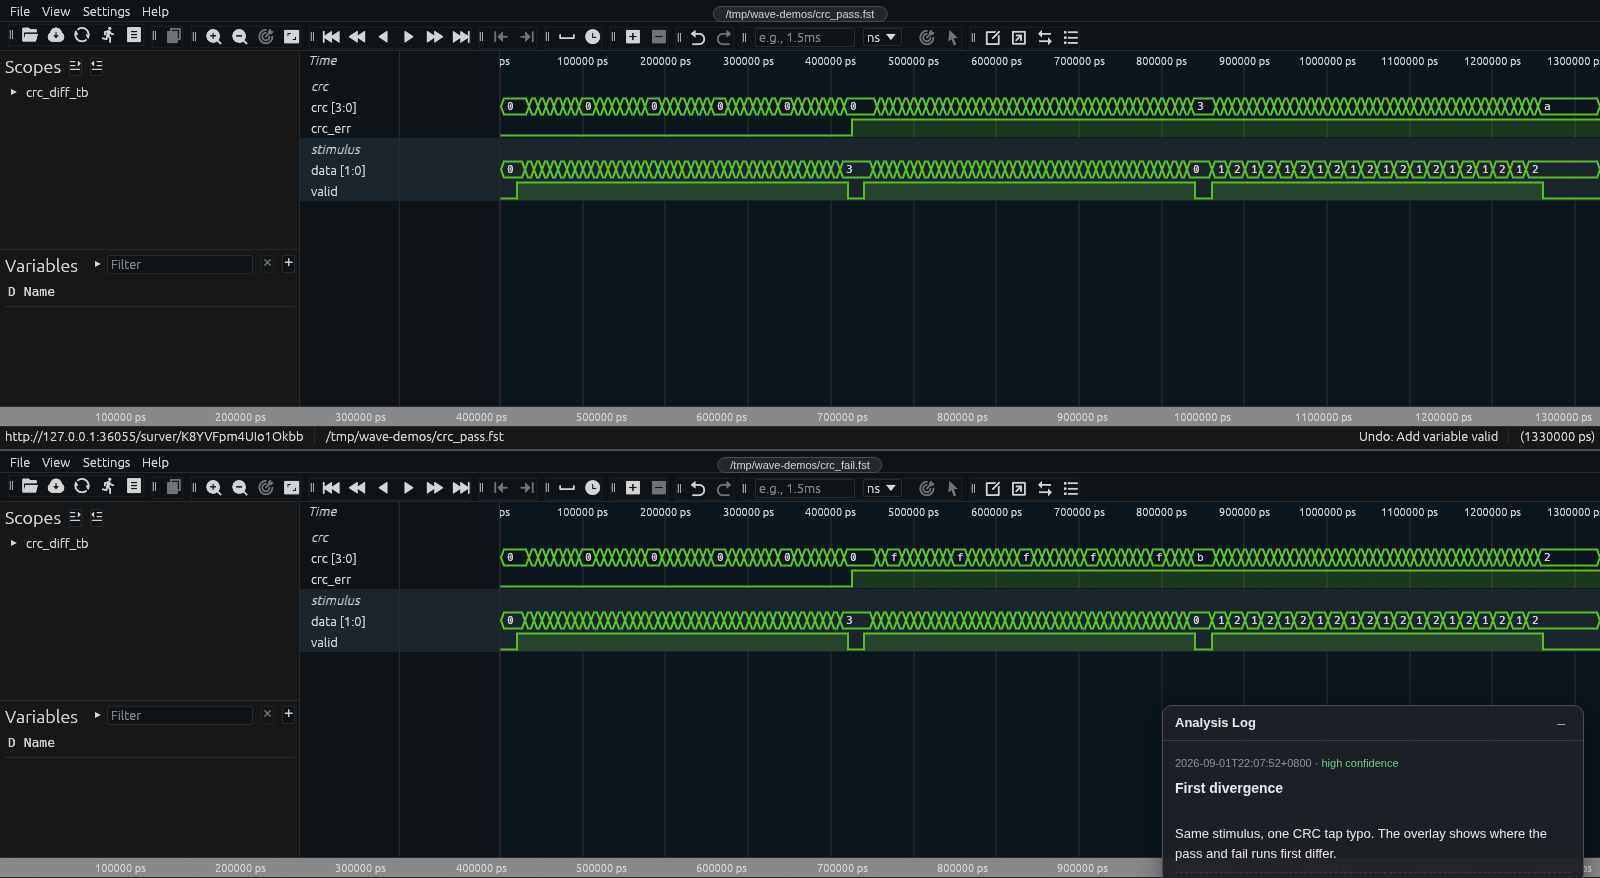
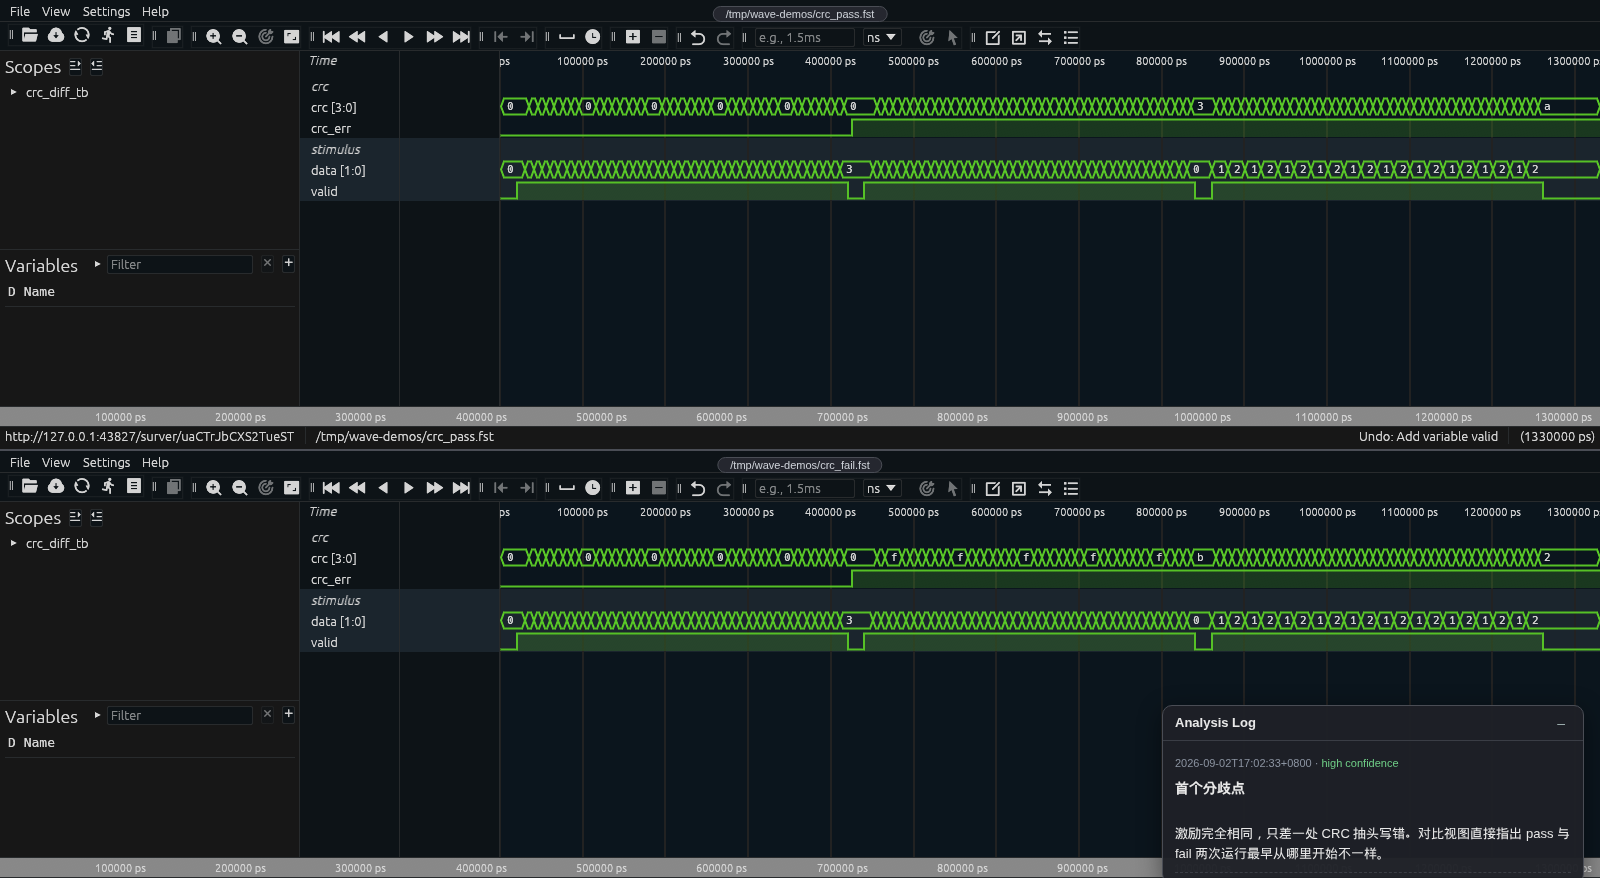
fix(viewer): keep multi-word group headings from being dropped

Changed region(s): [[0.7188, 0.8918, 0.9688, 0.9841], [0.125, 0.492, 0.3125, 0.5228], [0.0625, 0.492, 0.0938, 0.5228]]

diff --git a/examples/viewer_demos/capture_screenshots.py b/examples/viewer_demos/capture_screenshots.py
@@ -29,11 +29,19 @@ WAVES = HERE / "waves"
 
 # Per-scenario view spec: the signals, cursor, marker and annotation that make
 # the screenshot tell the story of that bug.
+#
+# Language note: annotation text is rendered by our own HTML log panel, which
+# uses the system font stack and handles any language. Group names are drawn
+# inside Surfer's WASM canvas, whose font atlas has no CJK glyphs, so a Chinese
+# group renders as boxes (the grouping still works). Keep groups ASCII here so
+# the published screenshots stay readable. Spaces are safe: translate.py folds
+# them to underscores, since sucl silently drops a divider whose name contains
+# whitespace.
 SCENARIOS = {
     "xprop": {
         "session": "session_xprop",
         "fst": "xprop.fst",
-        "title": "X propagation",
+        "title": "X 态传播",
         "signals": [
             {"path": "xprop_tb.dut.data_out", "color": "red", "group": "symptom"},
             {"path": "xprop_tb.dut.done", "group": "symptom"},
@@ -41,13 +49,13 @@ SCENARIOS = {
             {"path": "xprop_tb.dut.fsm_state", "group": "cause"},
             {"path": "xprop_tb.dut.rst_n", "group": "cause"},
         ],
-        "annotation": "## X propagation\n`data_out` carries X: `shreg` is never fully "
-                      "initialised before the FLUSH state drives the output.",
+        "annotation": "## X 态传播\n`data_out` 输出 X：进入 FLUSH 状态驱动输出之前，"
+                      "`shreg` 从未被完整初始化。",
     },
     "fsm_stuck": {
         "session": "session_fsm_stuck",
         "fst": "fsm_stuck.fst",
-        "title": "FSM deadlock",
+        "title": "状态机死锁",
         "signals": [
             {"path": "fsm_stuck_tb.dut.state", "color": "red", "group": "fsm"},
             {"path": "fsm_stuck_tb.dut.ack", "group": "fsm"},
@@ -55,13 +63,13 @@ SCENARIOS = {
             {"path": "fsm_stuck_tb.ack_wanted", "group": "testbench"},
             {"path": "fsm_stuck_tb.dut.rd_count", "group": "testbench"},
         ],
-        "annotation": "## FSM deadlock\nThe read FSM parks in `WAIT_ACK`: "
-                      "`ack` never returns, so `rd_count` stops advancing.",
+        "annotation": "## 状态机死锁\n读状态机停在 `WAIT_ACK`：`ack` 始终没有回来，"
+                      "于是 `rd_count` 不再往前走。",
     },
     "cdc": {
         "session": "session_cdc",
         "fst": "cdc.fst",
-        "title": "CDC pulse loss",
+        "title": "跨时钟域丢脉冲",
         "signals": [
             {"path": "cdc_tb.dut.pulse_fast", "group": "fast domain"},
             {"path": "cdc_tb.dut.clk_fast", "group": "fast domain"},
@@ -69,14 +77,14 @@ SCENARIOS = {
             {"path": "cdc_tb.dut.clk_slow", "group": "slow domain"},
             {"path": "cdc_tb.dut.pulse_count", "group": "slow domain"},
         ],
-        "annotation": "## CDC pulse loss\n`pulse_fast` is narrower than one `clk_slow` "
-                      "period, so the slow domain never samples it and `pulse_count` stalls.",
+        "annotation": "## 跨时钟域丢脉冲\n`pulse_fast` 比一个 `clk_slow` 周期还窄，"
+                      "慢时钟域根本采不到它，`pulse_count` 因此停住。",
     },
     "crc_diff": {
         "session": "session_crc_diff",
         "fst": "crc_pass.fst",
         "fst_b": "crc_fail.fst",
-        "title": "Pass/fail divergence",
+        "title": "pass/fail 首分歧",
         "signals": [
             {"path": "crc_diff_tb.dut.crc", "color": "red", "group": "crc",
              "format": "hex"},
@@ -84,8 +92,8 @@ SCENARIOS = {
             {"path": "crc_diff_tb.dut.data", "group": "stimulus"},
             {"path": "crc_diff_tb.dut.valid", "group": "stimulus"},
         ],
-        "annotation": "## First divergence\nSame stimulus, one CRC tap typo. "
-                      "The overlay shows where the pass and fail runs first differ.",
+        "annotation": "## 首个分歧点\n激励完全相同，只差一处 CRC 抽头写错。"
+                      "对比视图直接指出 pass 与 fail 两次运行最早从哪里开始不一样。",
     },
 }
 

diff --git a/wave_mcp/viewer/translate.py b/wave_mcp/viewer/translate.py
@@ -11,6 +11,9 @@ Probed syntax on the pinned Surfer build (see dev-docs):
     per upstream command_parser.rs at the pinned commit); ``marker_add``
     is a GUI-only command and fails in batch mode;
   * viewport: ``zoom_to <from> <to>``; ``zoom_to_range`` is not sucl.
+  * dividers: ``divider_add <name>`` takes a SINGLE-WORD name. Quoting does
+    not help: ``divider_add "fast domain"`` is dropped silently and the group
+    heading never appears, so names are whitespace-collapsed before sending.
 """
 from __future__ import annotations
 
@@ -40,6 +43,22 @@ def _raw(obj: Dict[str, Any], timescale_exp: int = 0) -> str:
         # unknown unit or malformed value: pass the number through rather
         # than dropping the command entirely
         return str(val)
+
+
+def _divider_name(group: str) -> str:
+    """Make a group name safe for Surfer's sucl parser.
+
+    Probed on the pinned build: quoting does NOT protect a multi-word
+    parameter. ``divider_add "fast domain"`` is dropped silently, so the whole
+    group heading disappears while its signals still get added. Collapsing
+    whitespace into underscores keeps the heading visible and readable.
+
+    Non-ASCII names are left as-is: they are accepted and the divider is
+    created correctly, it just renders as tofu boxes because the WASM font
+    atlas carries no CJK glyphs. Losing the grouping would be worse than
+    showing an unreadable label.
+    """
+    return "_".join(str(group).split())
 
 
 def desired_to_sucl(desired: Dict[str, Any],
@@ -75,9 +94,9 @@ def desired_to_sucl(desired: Dict[str, Any],
     for sig in desired.get("signals", []):
         group = sig.get("group")
         if group and group != current_group:
-            # quote: multi-word group names would otherwise parse as
-            # several parameters (ExtraParameters("domain"))
-            cmds.append(f'divider_add "{group}"')
+            # Whitespace is collapsed: a quoted multi-word name is dropped by
+            # the sucl parser, taking the whole heading with it (probed).
+            cmds.append(f'divider_add "{_divider_name(group)}"')
             current_group = group
         cmds.append(f"variable_add {sig['path']}")
         if sig.get("color"):

diff --git a/wave_mcp/server.py b/wave_mcp/server.py
@@ -830,13 +830,19 @@ def open_wave_view(fst_paths: List[str],
     Args:
         fst_paths: one FST (normal view) or two (diff view, e.g. [pass, fail]).
         signals: initial signals, each {path, color?, group?, format?, source?}.
+            Prefer a short ASCII word for ``group``: the heading is drawn in the
+            waveform canvas, whose font has no CJK glyphs, so non-ASCII names
+            show as boxes (the grouping itself still works). Spaces are turned
+            into underscores automatically. Put prose in ``annotation``, which
+            renders any language correctly.
         cursor: {time, unit} to pin the cursor (e.g. the failure time).
         viewport: {from, to, unit} visible time window.
         markers: [{time, unit, label?, color?}] annotations on the timeline.
         diff: diff_waveforms result reference {source_a, source_b,
             first_divergence} — auto-adds a red marker at the divergence.
         annotation: {markdown, confidence?, evidence?} analysis note shown in
-            the log popup next to the waveform.
+            the log popup next to the waveform. Any language: written in your
+            own words, rendered as-is.
         labels: display labels per waveform (e.g. ["pass", "fail"]).
     """
     try:
@@ -859,7 +865,8 @@ def update_wave_view(view_id: str,
     """Update an open wave view in place (same URL, no reload for the user).
 
     Omitted args keep their current value; lists replace entirely except
-    annotations, which append to the analysis log popup.
+    annotations, which append to the analysis log popup. Same ``group`` and
+    ``annotation`` conventions as open_wave_view.
     """
     try:
         return _viewer().update_view(

diff --git a/tests/unit/test_viewer.py b/tests/unit/test_viewer.py
@@ -158,6 +158,25 @@ def test_translate() -> None:
     check("groups emit dividers once each",
           s.count('divider_add "G1"') == 1
           and s.count('divider_add "G2"') == 1, s)
+    # A divider name containing whitespace is silently dropped by the sucl
+    # parser (probed), which loses the whole heading. Names must be folded.
+    ws = desired_to_sucl({
+        "waveform": {"sources": [{"id": "a", "path": "/tmp/a.fst"}]},
+        "signals": [{"path": "t.a", "group": "fast domain"},
+                    {"path": "t.b", "group": "slow  domain  x"}],
+    }, -12)
+    check("multi-word group folded to underscores",
+          'divider_add "fast_domain"' in ws
+          and 'divider_add "slow_domain_x"' in ws
+          and '"fast domain"' not in ws, ws)
+    # Non-ASCII is passed through: the divider is created correctly, it just
+    # renders as boxes. Dropping it would lose the grouping entirely.
+    cjk = desired_to_sucl({
+        "waveform": {"sources": [{"id": "a", "path": "/tmp/a.fst"}]},
+        "signals": [{"path": "t.a", "group": "快时钟域"}],
+    }, -12)
+    check("non-ascii group preserved",
+          'divider_add "快时钟域"' in cjk, cjk)
     check("color follows its variable",
           "variable_add t.g1_s1;item_set_color red" in s, s)
     check("format mapped", "item_set_format Hexadecimal" in s, s)

diff --git a/docs/VIEWER_SCREENSHOTS.md b/docs/VIEWER_SCREENSHOTS.md
@@ -1,90 +1,88 @@
-# Wave viewer screenshots
+# 波形查看器截图
 
-What the browser viewer actually looks like when an agent finishes an
-analysis and presents it. Every image below is a real capture of the four
-demo scenarios in [examples/viewer_demos](../examples/viewer_demos), not a
-mockup: signal groups, bus formatting, colors and the Analysis Log panel are
-all produced by `open_wave_view` / `update_wave_view`.
+agent 分析完一个问题、把结论呈现给你时，浏览器里实际长什么样。下面每张图都是
+[examples/viewer_demos](../examples/viewer_demos) 四个 demo 场景的真实抓图，不是效果图：
+信号分组、总线进制、颜色、分析说明弹窗，全部由 `open_wave_view` / `update_wave_view` 生成。
 
-The debug reasoning behind each scenario (which tool call found what) is
-written up in the [demo README](../examples/viewer_demos/README.md). This page
-is only about what you see.
+每个场景背后的调试推理（哪一次工具调用发现了什么）写在
+[demo README](../examples/viewer_demos/README.md) 里，本页只讲你看到的画面。
 
-## X propagation
+## X 态传播
 
-`data_out` is red and reads `xx` on every packet, while `done` keeps pulsing:
-the FSM is healthy but the datapath is poisoned. Grouping puts the symptom on
-top and the cause below, where `shreg` is shown in hex and never leaves X on
-its high byte. The Analysis Log in the corner carries the agent's conclusion
-with a confidence tag.
+`data_out` 标红、每个包都读出 `xx`，而 `done` 还在正常跳动：状态机是好的，数据通路被污染了。
+分组把症状放上面、根因放下面，`shreg` 以 hex 显示，高字节始终没脱离 X。
+右下角的分析说明弹窗里是 agent 的结论，带置信度标注。
 
-![X propagation in the wave viewer](images/viewer/xprop.png)
+![波形查看器中的 X 态传播](images/viewer/xprop.png)
 
-## FSM deadlock
+## 状态机死锁
 
-`state` flatlines at `1` (`WAIT_ACK`) while `ack_wanted` stays high and
-`rd_count` freezes at `03`. The `fsm` and `testbench` groups separate the
-stuck handshake from what the testbench expected.
+`state` 平在 `1`（`WAIT_ACK`）不动，`ack_wanted` 一直是高，`rd_count` 冻在 `03`。
+`fsm` 与 `testbench` 两个分组把卡住的握手和 testbench 的预期分开摆。
 
-![FSM deadlock in the wave viewer](images/viewer/fsm_stuck.png)
+![波形查看器中的状态机死锁](images/viewer/fsm_stuck.png)
 
-## CDC pulse loss
+## 跨时钟域丢脉冲
 
-Six pulses go out on `pulse_fast` in the fast domain, only two survive into
-`pulse_seen`, and `pulse_count` stops at `02`. Grouping by clock domain makes
-the loss obvious: the source pulse is narrower than one `clk_slow` period, so
-the slow domain simply never samples it.
+快时钟域的 `pulse_fast` 发出六个脉冲，`pulse_seen` 只收到两个，`pulse_count` 停在 `02`。
+按时钟域分组后丢失一目了然：源脉冲比一个 `clk_slow` 周期还窄，慢时钟域根本没机会采到它。
 
-![CDC pulse loss in the wave viewer](images/viewer/cdc.png)
+![波形查看器中的跨时钟域丢脉冲](images/viewer/cdc.png)
 
-## Pass/fail divergence
+## pass/fail 首分歧
 
-Two waveforms, one pane each, time-aligned. Same RTL and same stimulus, one
-CRC tap typo. `crc` tracks identically until it splits (`3` / `a` on top,
-`f` / `b` below) and `crc_err` rises only in the failing run. This is the view
-`diff_waveforms` sets up for first-divergence localization.
+两份波形上下各占一个 pane，时间轴对齐。RTL 相同、激励相同，只差一处 CRC 抽头写错。
+`crc` 一路完全一致，直到分道扬镳（上面 `3` / `a`，下面 `f` / `b`），而 `crc_err` 只在
+失败那次拉高。这正是 `diff_waveforms` 为首分歧定位铺好的视图。
 
-![Pass/fail divergence in the wave viewer](images/viewer/crc_diff.png)
+![波形查看器中的 pass/fail 首分歧](images/viewer/crc_diff.png)
 
-## Reproduce these yourself
+## 关于界面语言
 
-Everything here is reproducible from a clean clone. Build the demo waveforms
-once, then either capture the images again or open any scenario interactively.
+分析说明弹窗的内容**由 agent 自己决定用什么语言**，wave-mcp 不做任何限制，上面几张图是
+中文的效果。
 
-Prerequisites: `iverilog` and `vcd2fst` on PATH, plus the viewer extra
-(`pip install -e ".[viewer]"`, or set `WAVE_MCP_VIEWER_ASSETS`).
+信号分组名是个例外，它画在 Surfer 的 WASM 画布里，那份字体图集不含 CJK 字形，所以写中文
+会显示成方块（分组本身照常生效，只是标题不可读），建议用简短的 ASCII 词。名字里的空格由
+服务端自动转成下划线：sucl 解析器不接受带空格的参数，原样发过去整个分组标题会被静默丢弃。
+
+## 自己复现一遍
+
+本页内容都能从一份干净的 clone 复现出来。先构建 demo 波形，然后要么重新抓图，
+要么直接交互式打开任一场景。
+
+前置依赖：PATH 上有 `iverilog` 与 `vcd2fst`，以及查看器可选资产包
+（`pip install -e ".[viewer]"`，或设 `WAVE_MCP_VIEWER_ASSETS`）。
 
 ```bash
 cd examples/viewer_demos
 ./make_all.sh                 # iverilog -> vcd2fst -> build_session
 ```
 
-To regenerate every screenshot on this page (needs `playwright` and its
-chromium: `pip install playwright && playwright install chromium`):
+重新生成本页全部截图（需要 `playwright` 及其 chromium：
+`pip install playwright && playwright install chromium`）：
 
 ```bash
 python3 examples/viewer_demos/capture_screenshots.py
-python3 examples/viewer_demos/capture_screenshots.py cdc   # just one
+python3 examples/viewer_demos/capture_screenshots.py cdc   # 只抓一个
 ```
 
-Images are written to `docs/images/viewer/`. The script runs chromium headless,
-waits for the Surfer WASM canvas to paint, and skips cleanly (exit 0) when
-playwright or the viewer assets are missing.
+图片写入 `docs/images/viewer/`。脚本以 headless chromium 运行，会等到 Surfer 的 WASM
+画布真正绘制完成才截图；缺 playwright 或缺查看器资产时干净跳过（退出码 0）。
 
-To poke at a scenario by hand instead of looking at a static image, run a demo
-with `--hold` and open the URL it prints:
+想动手摆弄某个场景而不是看静态图，带 `--hold` 跑 demo，然后打开它打印的 URL：
 
 ```bash
 python3 examples/viewer_demos/demo3_cdc.py --hold
 ```
 
-Or open the prebuilt waveforms directly, without the scripted annotations:
+也可以直接打开预置波形，不带脚本里那些分析说明：
 
 ```bash
 wave-view examples/viewer_demos/waves/cdc.fst \
     --signals cdc_tb.dut.pulse_fast cdc_tb.dut.pulse_seen cdc_tb.dut.clk_slow
 ```
 
-On a remote machine, forward the port the viewer prints
-(`ssh -L 8080:127.0.0.1:<port> <host>`) and open the URL locally. See the
-[wave viewer guide](WAVE_VIEWER.md) for the full CLI and tool reference.
+在远程机器上跑时，把查看器打印的端口转发出来
+（`ssh -L 8080:127.0.0.1:<port> <host>`）再在本地打开。完整的 CLI 与工具参考见
+[波形查看器指南](WAVE_VIEWER.md)。

diff --git a/docs/WAVE_VIEWER.en.md b/docs/WAVE_VIEWER.en.md
@@ -119,6 +119,7 @@ Returns:
 Field notes:
 
 - Each `signals` entry is `{path, color?, group?, format?, source?}`. In compare views, `source: "a"/"b"` assigns a signal to one waveform; by default it is added to both.
+- Prefer a short ASCII word for `group`. The heading is drawn in Surfer's WASM canvas, whose font carries no CJK glyphs, so a non-ASCII name renders as boxes (the grouping itself still works). Spaces are folded to underscores automatically: the sucl parser rejects a parameter containing whitespace and would silently drop the whole heading. Put prose in `annotation`, which accepts any language.
 - The `diff` parameter takes a `diff_waveforms` result reference `{source_a, source_b, first_divergence}` and automatically places a red marker at the first divergence, no manual conversion needed.
 - `labels` names each waveform, same as the CLI `--labels`.
 - If assets are missing or surver fails to start, the tool returns `{"available": false, "hint": …}` instead of raising.

diff --git a/docs/WAVE_VIEWER.md b/docs/WAVE_VIEWER.md
@@ -119,6 +119,7 @@ open_wave_view({
 字段要点：
 
 - `signals` 每项 `{path, color?, group?, format?, source?}`；对比视图里用 `source: "a"/"b"` 指定信号属于哪份波形，缺省两边都加。
+- `group` 建议用简短的 ASCII 词。分组标题画在 Surfer 的 WASM 画布里，字体不含 CJK 字形，写中文会显示成方块（分组本身照常生效）。名字里的空格会自动折成下划线，因为 sucl 解析器不接受带空格的参数，原样发过去整条分组标题会被静默丢弃。想写中文说明放到 `annotation` 里，那里不限语言。
 - `diff` 参数直接接 `diff_waveforms` 的结果引用 `{source_a, source_b, first_divergence}`，自动在首分歧时刻打红色 marker，不用手动换算。
 - `labels` 给每份波形起显示名，与 CLI 的 `--labels` 一致。
 - 资产缺失或 surver 启动失败时返回 `{"available": false, "hint": …}`，不抛错。
